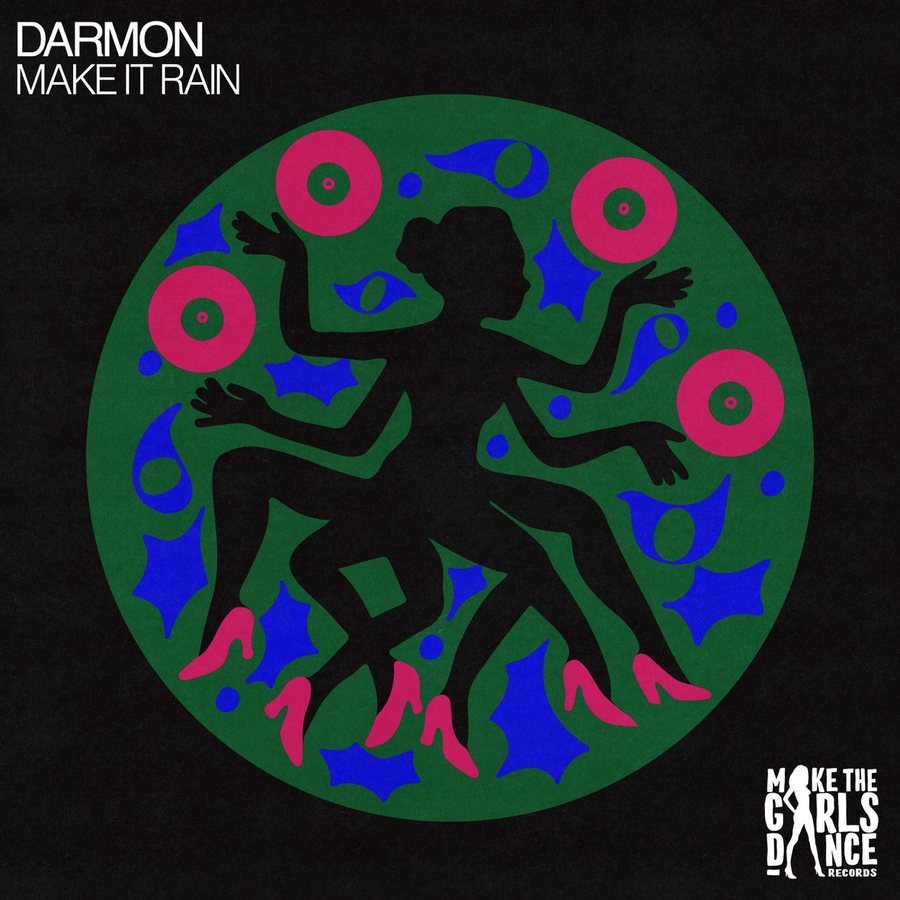
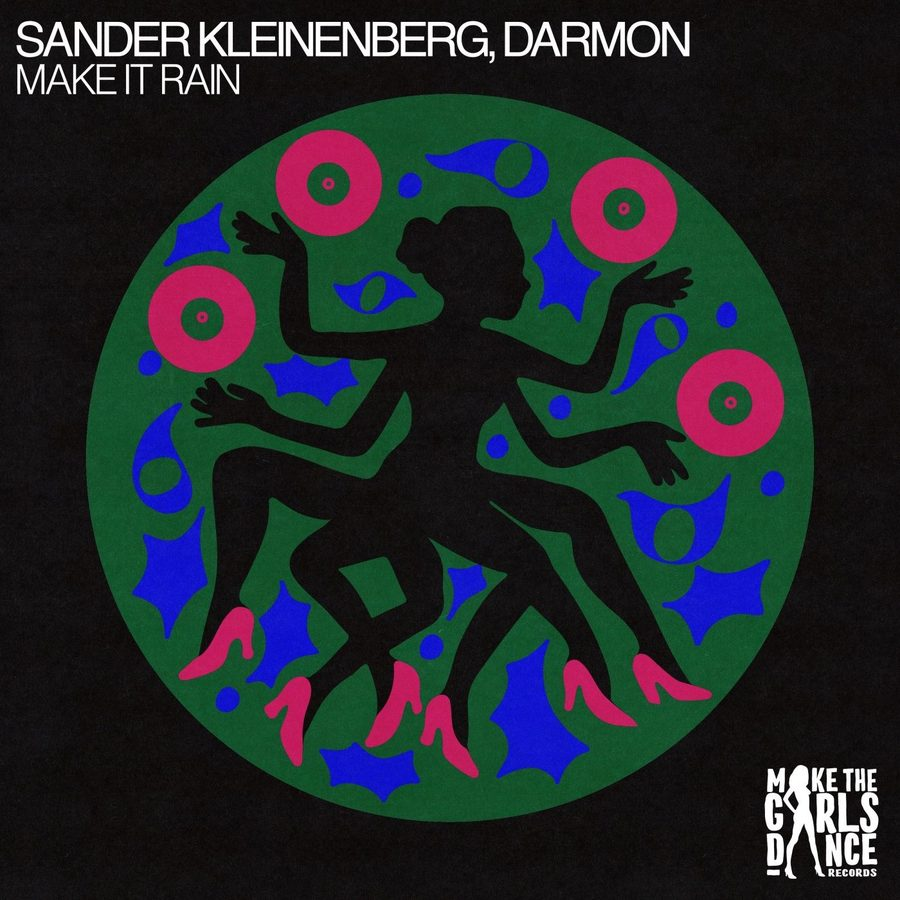
5k: the Make It Rain sleeve as released, with both names on it
The cover on the pinned Polaroid was the earlier artwork, billed to Darmon
alone. This is the released sleeve: same illustration, with Sander Kleinenberg
on the line above. Resized to 900 square to match what the markup declares,
and 108KB against the 111KB it replaces. The alt text follows the sleeve's own
billing order.

Changed region(s): [[0.0, 0.0, 0.7778, 0.0622]]

diff --git a/5k/index.html b/5k/index.html
@@ -658,7 +658,7 @@ html[data-kb] .slot:has(:focus-visible) .tilt{outline:2px solid var(--accent);ou
   <div class="single">
    <div class="pinned">
     <div class="pinned-card">
-     <span class="pinned-shot"><img src="p/make-it-rain.jpg" alt="Darmon &amp; Sander Kleinenberg &mdash; Make It Rain" width="900" height="900" decoding="async"><button class="snip-play" type="button" aria-pressed="false" aria-label="Play a 30-second preview of Make It Rain"><svg viewBox="0 0 24 24" aria-hidden="true"><path class="ico-play" d="M9 5.3 19.4 12 9 18.7Z"/><g class="ico-pause"><rect x="7.4" y="5.6" width="3.5" height="12.8" rx="1.1"/><rect x="13.1" y="5.6" width="3.5" height="12.8" rx="1.1"/></g></svg></button><audio class="snip" preload="none" src="p/make-it-rain-clip.mp4"></audio></span>
+     <span class="pinned-shot"><img src="p/make-it-rain.jpg" alt="Sander Kleinenberg &amp; Darmon &mdash; Make It Rain" width="900" height="900" decoding="async"><button class="snip-play" type="button" aria-pressed="false" aria-label="Play a 30-second preview of Make It Rain"><svg viewBox="0 0 24 24" aria-hidden="true"><path class="ico-play" d="M9 5.3 19.4 12 9 18.7Z"/><g class="ico-pause"><rect x="7.4" y="5.6" width="3.5" height="12.8" rx="1.1"/><rect x="13.1" y="5.6" width="3.5" height="12.8" rx="1.1"/></g></svg></button><audio class="snip" preload="none" src="p/make-it-rain-clip.mp4"></audio></span>
    <ul class="plat">
        <li><a href="https://open.spotify.com/track/5xrKQ7HwqAcsPaXkU4x336" target="_blank" rel="noopener noreferrer"
         aria-label="Listen on Spotify" title="Spotify"><span class="plat-i"><svg viewBox="0 0 24 24" aria-hidden="true"><path d="M12 0C5.4 0 0 5.4 0 12s5.4 12 12 12 12-5.4 12-12S18.66 0 12 0zm5.521 17.34c-.24.359-.66.48-1.021.24-2.82-1.74-6.36-2.101-10.561-1.141-.418.122-.779-.179-.899-.539-.12-.421.18-.78.54-.9 4.56-1.021 8.52-.6 11.64 1.32.42.18.479.659.301 1.02zm1.44-3.3c-.301.42-.841.6-1.262.3-3.239-1.98-8.159-2.58-11.939-1.38-.479.12-1.02-.12-1.14-.6-.12-.48.12-1.021.6-1.141C9.6 9.9 15 10.561 18.72 12.84c.361.181.54.78.241 1.2zm.12-3.36C15.24 8.4 8.82 8.16 5.16 9.301c-.6.179-1.2-.181-1.38-.721-.18-.601.18-1.2.72-1.381 4.26-1.26 11.28-1.02 15.72 1.621.539.3.719 1.02.419 1.56-.299.421-1.02.599-1.559.3z"/></svg></span></a></li>
